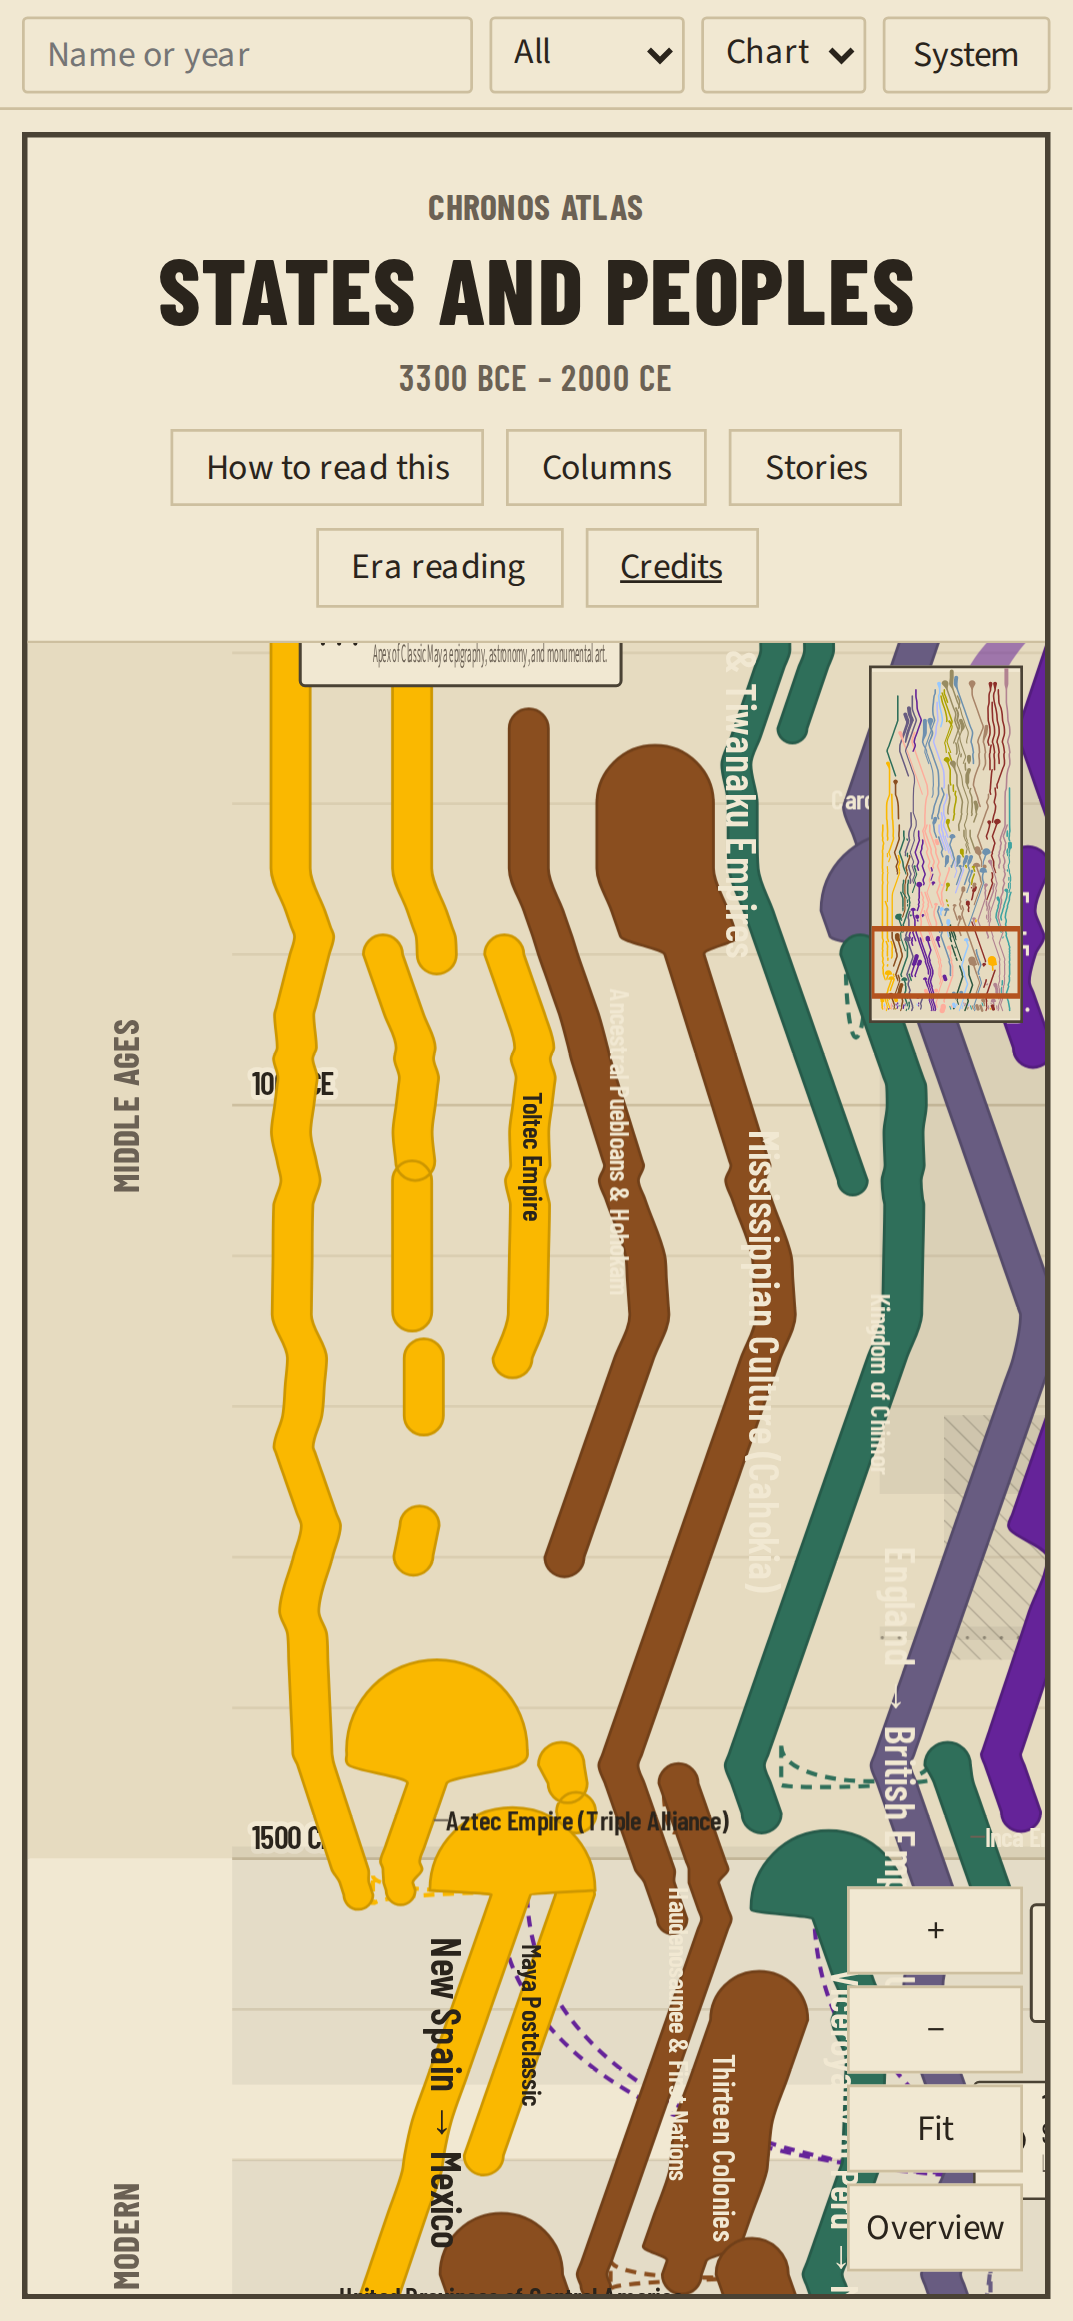
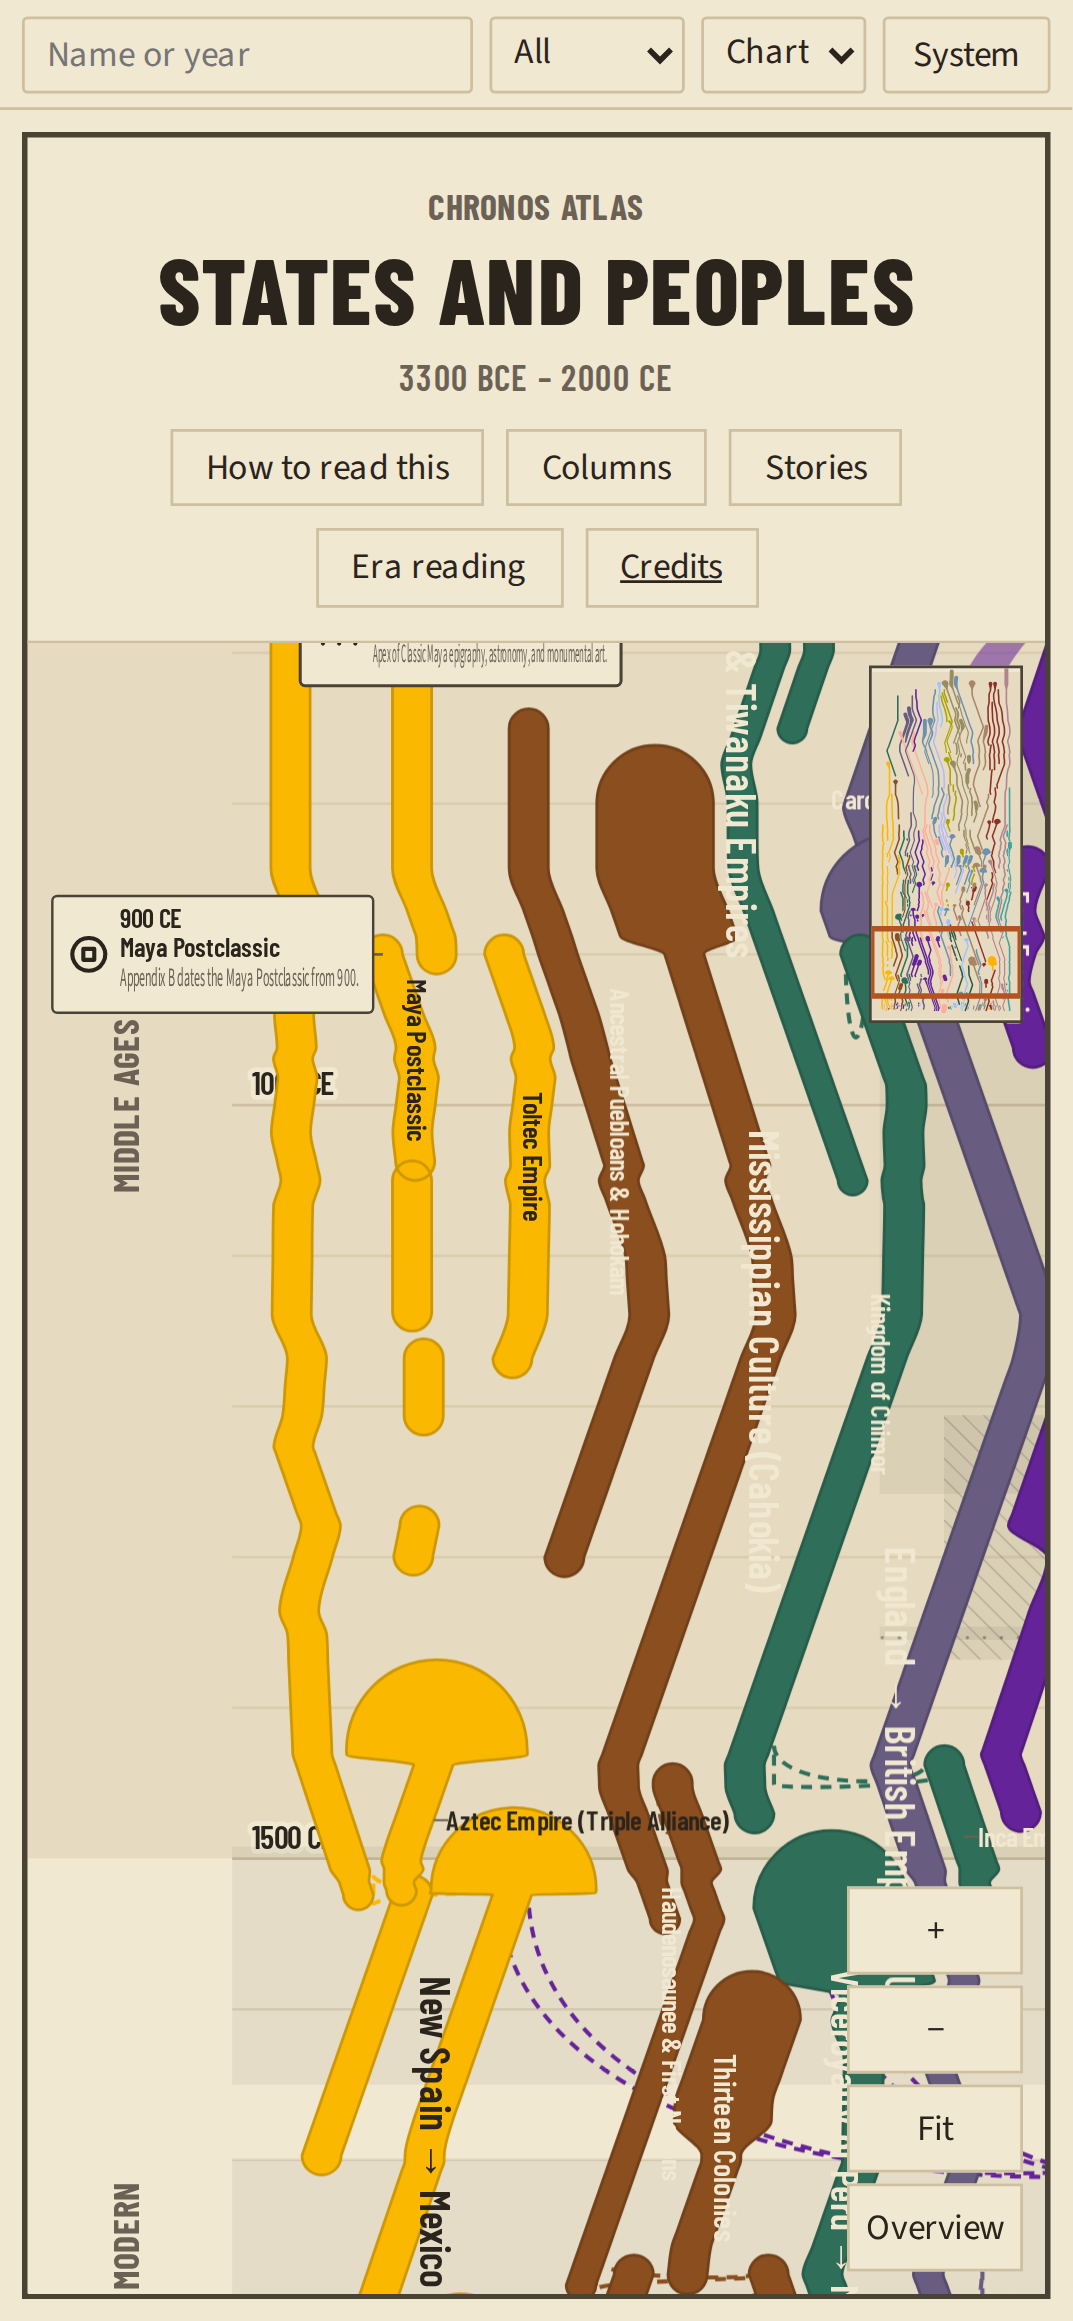
T6.02: retake poster shots after the early-modern rows
Desktop, wide, and mobile scenes passed. The frame around 1540 shows the union-of-the-crowns callout and the Ming ribbon.

diff --git a/docs/PROGRESS.md b/docs/PROGRESS.md
@@ -149,7 +149,7 @@ Partials: item 1, overview labels about 2px (`docs/shots/p3/desktop-overview.png
 
 ## P6
 
-| Task  | Status | Commit  | Evidence                                                                                   | Minutes | Notes                                                                                                                                                                                                                                      |
-| ----- | ------ | ------- | ------------------------------------------------------------------------------------------ | ------- | ------------------------------------------------------------------------------------------------------------------------------------------------------------------------------------------------------------------------------------------ |
-| T6.01 | doing  | 17d61f0 | `npm run shots` 3 passed; 1800–2000 count 169; layout overlaps 0; warm runtime over 150 ms | 115     | States Appendix B does not date are in 7d3a50c. The spine and layout report are c37e6ee. Notes, tours, and `docs/reviews/1800-2000.md` are 17d61f0. Two listed homepages loaded and did not state a row year, so nothing is cross-checked. |
-| T6.02 | doing  | 16078bf | 1500–1800 count 108; layout overlaps 0; warm runtime 156 ms                                |         | Prose is bab8710. Sweden, Denmark–Norway, and Saadi Morocco are 94d7f8f. Callouts are 7f9c251. Notes are 84c73c5. Tours are 16078bf. `unesco_gha` loaded and stated volume centuries, not a row year, so nothing is cross-checked.         |
+| Task  | Status | Commit  | Evidence                                                                                   | Minutes | Notes                                                                                                                                                                                                                                                        |
+| ----- | ------ | ------- | ------------------------------------------------------------------------------------------ | ------- | ------------------------------------------------------------------------------------------------------------------------------------------------------------------------------------------------------------------------------------------------------------ |
+| T6.01 | doing  | 17d61f0 | `npm run shots` 3 passed; 1800–2000 count 169; layout overlaps 0; warm runtime over 150 ms | 115     | States Appendix B does not date are in 7d3a50c. The spine and layout report are c37e6ee. Notes, tours, and `docs/reviews/1800-2000.md` are 17d61f0. Two listed homepages loaded and did not state a row year, so nothing is cross-checked.                   |
+| T6.02 | doing  | 1bc27b6 | `npm run shots` 3 passed; 1500–1800 count 108; layout overlaps 0; warm runtime 156 ms      |         | Prose is bab8710. Sweden, Denmark–Norway, and Saadi Morocco are 94d7f8f. Callouts are 7f9c251. Notes are 84c73c5. Tours are 16078bf. The checklist is 1bc27b6. `unesco_gha` loaded and stated volume centuries, not a row year, so nothing is cross-checked. |

diff --git a/docs/reviews/1500-1800.md b/docs/reviews/1500-1800.md
@@ -42,7 +42,7 @@ No Reformation, Scientific Revolution, or Little Ice Age band was added. Appendi
 
 ## Layout
 
-`docs/reports/layout-latest.json` after this pass: 238 ribbons drawn, 436 polities, 0 overlaps, minimum gap 6, importance-3 labels 82/82, 0 unroutable relations, max drift 3.211. Cold runtime 259 ms, warm 156 ms, over the 150 ms gate. The layout engine was not changed. Importance was not raised. Denmark–Norway is weight 0.22 so its ribbon does not push the Thirteen Colonies label onto Peru.
+`docs/reports/layout-latest.json` after this pass: 238 ribbons drawn, 436 polities, 0 overlaps, minimum gap 6, importance-3 labels 82/82, 0 unroutable relations, max drift 3.211. Cold runtime 259 ms, warm 156 ms, over the 150 ms gate. The layout engine was not changed. Importance was not raised. Denmark–Norway is weight 0.22 so its ribbon does not push the Thirteen Colonies label onto Peru. `npm run shots` passed on desktop, wide, and mobile. The frame around 1540 shows the union-of-the-crowns callout and the Ming ribbon.
 
 ## Tours and notes
 
